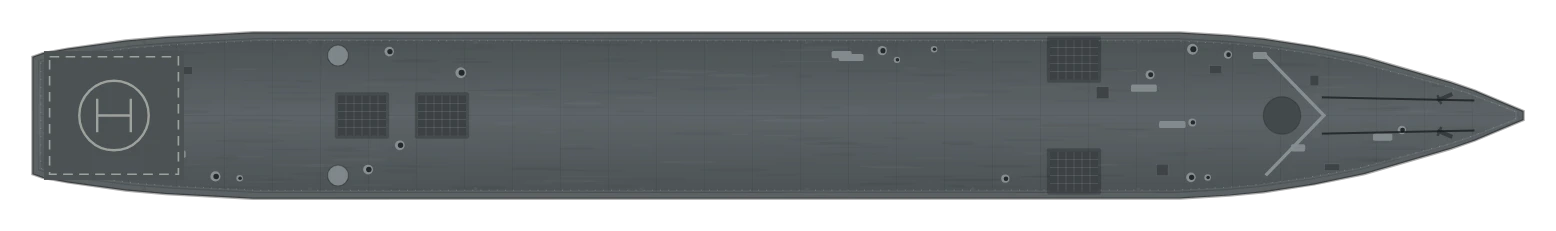
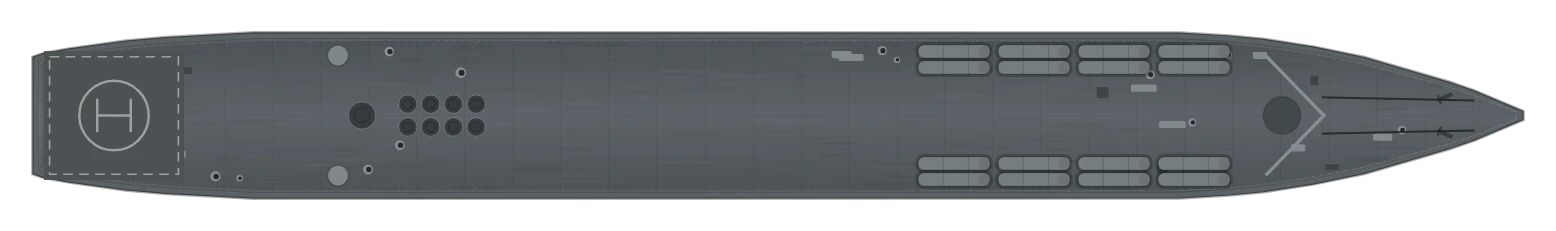
Missile launchers drawn as they looked (a slot's look: canister rows, revolver lids, a grid, deck-edge modules, quad or single hatches): the Slava's P-500 tubes and S-300 battery, the Kirov's Granit grid and S-300 cluster, the Zumwalt's cells along her deck edges
Looks only. fit_audit unchanged; aux_test, review_test pass.

Claude-Session: https://claude.ai/code/session_0112riLGm4nSjrgsGiYL5DUG

Changed region(s): [[0.5861, 0.6364, 0.8021, 0.8485], [0.5861, 0.1515, 0.8021, 0.3636], [0.2159, 0.3939, 0.3085, 0.6061]]

diff --git a/index.html b/index.html
@@ -531,7 +531,7 @@ const DESIGN_LIST = [
   { id: 'ddg_zumwalt', cls: 'ddg', tech: 'stealth', yard: 'tidewater', dn: 'Wraith', model: 'Zumwalt-class destroyer', year: 2016, era: 4, L: 190, B: 24.6, t: 15700, kn: 30, td: 900, armor: 25, crew: 175, price: 235000, power: true,
     // a wave-piercing hull, widest abaft amidships, its sides leaning inboard; one great slab-sided deckhouse and nothing else standing
     p: { outline: [[95.0, 0.86], [93.39, 1.15], [85.83, 1.29], [81.87, 1.55], [16.97, 12.3], [-95.0, 12.3]], stealth: { tumble: true, up: [[-10, 33, 12.5, 2]] }, sup: [[-16, 63, 19.5, 3]], helo: [[-71, 9]] },
-    slots: [sl('M', 55, 0, FWD, 'g155s'), sl('M', 31, 0, FWD, 'g155s'), sl('V', 43, -6, ALL, 'ssm'), sl('V', 43, 6, ALL, 'sam'), sl('V', -58, -7.5, ALL, 'sam'), sl('V', -58, 7.5, ALL, 'ssm'), sl('A', -47, 0, ALL, 'ciws')] },
+    slots: [sl('M', 55, 0, FWD, 'g155s'), sl('M', 31, 0, FWD, 'g155s'), Object.assign(sl('V', 40, -7.4, ALL, 'ssm'), { look: 'pvls', len: 20, n: 5, ang: 0.147 }), Object.assign(sl('V', 40, 7.4, ALL, 'sam'), { look: 'pvls', len: 20, n: 5, ang: 0.147 }), Object.assign(sl('V', -42, -11, ALL, 'sam'), { look: 'pvls', len: 10, n: 2, wd: 2 }), Object.assign(sl('V', -42, 11, ALL, 'ssm'), { look: 'pvls', len: 10, n: 2, wd: 2 }), sl('A', -47, 0, ALL, 'ciws')] },
   { id: 'ddg_gorshkov', cls: 'ff', tech: 'stealth', yard: 'neva', dn: 'Admiral', model: 'Admiral Gorshkov-class frigate', year: 2018, era: 4, L: 135, B: 16, t: 5400, kn: 29.5, td: 640, armor: 10, crew: 210, price: 95000,
     p: { bow: .38, run: .2, stern: 't', tw: .6, stealth: { up: [[17, 15, 8.5, 2]] }, sup: [[14, 30, 13, 2]], fun: [[-8, 3.2, 2.4]], mast: [[15, 'l']], helo: [[-55, 7]] },
     slots: [sl('M', 52, 0, FWD, 'g130a'), sl('V', 40, 0, ALL, 'ssm'), sl('V', 32, 0, ALL, 'sam'), sl('V', -30, 0, ALL, 'sam'), ...pair('A', -20, 5.6, 'ciws'), sl('T', -17.5, 0, BEAM, 'torh')] },
@@ -670,10 +670,10 @@ const DESIGN_LIST = [
     slots: [sl('M', 70, 0, FWD, 'g127a'), sl('V', 56, 0, ALL, 'ssm'), sl('V', -54, 0, ALL, 'sam'), sl('V', 44, 0, ALL, 'sam'), sl('V', -68, 0, ALL, 'ssm'), sl('M', -78, 0, AFT, 'g127a'), sl('A', 38, -5, PORT, 'ciws'), sl('A', -36, 5, STBD, 'ciws'), sl('T', -31, 0, BEAM, 'torh')] },
   { id: 'cg_slava', cls: 'cg', yard: 'neva', dn: 'Gromoboi', model: 'Slava-class cruiser', year: 1982, era: 3, L: 186.4, B: 20.8, t: 9380, kn: 32, td: 880, armor: 25, crew: 476, price: 225000,
     p: { outline: [[93.2, 0.55], [87.13, 3.11], [84.04, 4.19], [73.33, 7.31], [67.03, 8.61], [60.73, 9.59], [56.44, 10.01], [50.26, 10.37], [-65.6, 10.4], [-76.55, 9.81], [-81.54, 9.37], [-88.8, 8.36], [-91.89, 7.8], [-93.2, 7.34]], sup: [[19, 27, 10, 4], [-13, 38, 12, 2], [-64, 16, 11, 2]], fun: [[-24, 3.5, 2.5, -4.5], [-24, 3.5, 2.5, 4.5]], mast: [[15, 'l'], [-8, 'l']], boats: [[-18, 1]], helo: [[-83, 7]] },
-    slots: [sl('M', 63, 0, FWD, 'g130a'), ...pair('V', 37, 7, 'ssmh'), sl('V', -42, 0, ALL, 'sam'), sl('V', -52, 0, ALL, 'sam'), ...pair('A', -55, 7.5, 'ciws'), sl('T', -34, 0, BEAM, 'torh')] },
+    slots: [sl('M', 63, 0, FWD, 'g130a'), ...pair('V', 37, 7, 'ssmh').map(q => Object.assign(q, { look: 'canister', n: 4, rows: 2, tl: 9 })), Object.assign(sl('V', -42, 0, ALL, 'sam'), { look: 'revolver', nx: 4, ny: 2 }), Object.assign(sl('V', -52, 0, ALL, 'sam'), { look: 'hatch' }), ...pair('A', -55, 7.5, 'ciws'), sl('T', -34, 0, BEAM, 'torh')] },
   { id: 'cg_kirov', cls: 'cg', name: 'Nuclear Battlecruiser', nuc: true, yard: 'neva', dn: 'Admiral Volkov', model: 'Kirov-class battlecruiser', year: 1980, era: 3, L: 252, B: 28.5, t: 24300, kn: 32, td: 1100, armor: 76, crew: 710, price: 540000,
     p: { outline: [[126.0, 0.75], [125.3, 1.0], [123.18, 2.1], [116.29, 4.89], [109.39, 6.66], [102.07, 8.09], [85.17, 10.41], [75.18, 11.14], [71.09, 11.31], [62.08, 12.2], [41.67, 13.84], [35.34, 14.11], [-62.23, 14.25], [-68.28, 13.99], [-71.52, 13.99], [-77.01, 13.72], [-81.23, 13.31], [-99.53, 12.76], [-104.46, 12.35], [-120.23, 11.87], [-121.35, 11.53], [-124.17, 10.18], [-126.0, 7.99]], bow: .36, run: .2, stern: 't', tw: .55, sup: [[8, 40, 18, 5], [-40, 56, 15, 3], [-74, 12, 12, 2]], fun: [[-10, 4.5, 3.6]], mast: [[6, 'l'], [-30, 'l']], helo: [[-112, 9]], boats: [[-22, 1]] },
-    slots: [...pair('V', 45, 4.5, 'ssmh'), ...pair('V', 35, 4.5, 'ssmh'), sl('V', 80, 0, ALL, 'sam'), sl('V', 60, 0, ALL, 'sam'), sl('V', -97, 0, ALL, 'sam'), sl('M', -86, 0, AFT, 'g130a'), ...pair('A', 31, 9, 'ciws'), ...pair('A', -62, 9, 'ciws'), sl('T', -25, 0, BEAM, 'torh')] },
+    slots: [...[...pair('V', 45, 3.2, 'ssmh'), ...pair('V', 35, 3.2, 'ssmh')].map(q => Object.assign(q, { look: 'grid', nx: 3, ny: 2, c: 2.8 })), Object.assign(sl('V', 80, 0, ALL, 'sam'), { look: 'quad' }), Object.assign(sl('V', 60, 0, ALL, 'sam'), { look: 'revolver', nx: 3, ny: 4, r: 1.1 }), Object.assign(sl('V', -97, 0, ALL, 'sam'), { look: 'quad' }), sl('M', -86, 0, AFT, 'g130a'), ...pair('A', 31, 9, 'ciws'), ...pair('A', -62, 9, 'ciws'), sl('T', -25, 0, BEAM, 'torh')] },
 ];
 const HULL_K = 1; // overall toughness, tuned against measured battle lengths
 // Armour by place (the owner's go-ahead, 12 Nov 2026): the belt is each design's `armor`; here are the armoured deck,
@@ -1207,7 +1207,36 @@ function drawPlan(g, d, P, part = 'all') {
     else if (s.s === 'A') { const r = s.def === 'aa40' ? 1.5 : s.def === 'ciws' ? 1.3 : s.def === 'aa25' ? 1.2 : 0.8; g.beginPath(); g.arc(s.x, s.y, r, 0, TAU); g.fillStyle = shade(P.sup, -0.1);   // (a small tub, under the mount: a large dark disc read as a shadow off to one side, the owner, 13 Nov 2026)
        g.fill(); g.strokeStyle = 'rgba(0,0,0,.25)'; g.lineWidth = 0.15; g.stroke(); }
     else if (s.s === 'V') {
-      if (d.era >= 3) { const cw = 6, ch = 5; contact(g, k => rrect(g, s.x - cw / 2 - k, s.y - ch / 2 - k, cw + 2 * k, ch + 2 * k, 0.3), 0.4); g.fillStyle = shade(P.deck, -0.3); g.fillRect(s.x - cw / 2, s.y - ch / 2, cw, ch);
+      // a launcher drawn as the real one looked, chosen per slot (look; the owner, 14 Nov 2026): 'none' (drawn by another slot),
+      // 'canister' (rows of long tubes on deck, the Slava's), 'revolver' (round lids in a grid, an S-300 battery), 'grid' (a big
+      // square of lids under the deck, the Kirov's Granit), 'pvls' (cell modules in a strip along the deck edge, angled to it, the
+      // Zumwalt's), 'quad' (four small round lids), 'hatch' (one round lid). Looks only: what is fired is the weapon's.
+      const lk = s.look;
+      const lid = (x, y, r) => { g.beginPath(); g.arc(x, y, r, 0, TAU); g.fillStyle = shade(P.deck, -0.36); g.fill(); g.strokeStyle = 'rgba(205,210,210,.28)'; g.lineWidth = 0.12; g.stroke();
+        g.beginPath(); g.arc(x, y, r * 0.55, 0, TAU); g.strokeStyle = 'rgba(0,0,0,.35)'; g.lineWidth = 0.1; g.stroke(); };
+      if (lk === 'none') { }
+      else if (lk === 'canister') { const n = s.n || 4, rows = s.rows || 2, tl = s.tl || 9, tr = s.tr || 0.85, step = tl + (s.gap || 1.0);
+        for (let i = 0; i < n; i++) for (let r = 0; r < rows; r++) { const cx = s.x + (i - (n - 1) / 2) * step, cy = s.y + (r - (rows - 1) / 2) * (tr * 2 + 0.3);
+          contact(g, k => rrect(g, cx - tl / 2 - k, cy - tr - k, tl + 2 * k, tr * 2 + 2 * k, tr + k), 0.35);
+          rrect(g, cx - tl / 2, cy - tr, tl, tr * 2, tr); crownFill(g, P.sup, tr, -0.04); g.strokeStyle = 'rgba(0,0,0,.35)'; g.lineWidth = 0.12; g.stroke();
+          g.beginPath(); g.arc(cx + tl / 2 - tr * 0.9, cy, tr * 0.8, 0, TAU); g.fillStyle = shade(P.sup, -0.25); g.fill();   // the forward cap
+          g.strokeStyle = 'rgba(0,0,0,.22)'; g.lineWidth = 0.1; g.beginPath(); for (const f of [-0.15, 0.2]) { g.moveTo(cx + f * tl, cy - tr); g.lineTo(cx + f * tl, cy + tr); } g.stroke(); } }
+      else if (lk === 'revolver' || lk === 'quad' || lk === 'hatch') { const nx = lk === 'hatch' ? 1 : lk === 'quad' ? 2 : (s.nx || 4), ny = lk === 'hatch' ? 1 : lk === 'quad' ? 2 : (s.ny || 2);
+        const r = s.r || (lk === 'hatch' ? 1.7 : lk === 'quad' ? 0.95 : 1.15), st = r * 2 + (s.gap || 0.55);
+        for (let i = 0; i < nx; i++) for (let j = 0; j < ny; j++) lid(s.x + (i - (nx - 1) / 2) * st, s.y + (j - (ny - 1) / 2) * st, r); }
+      else if (lk === 'grid') { const nx = s.nx || 5, ny = s.ny || 4, c = s.c || 2.6, w = nx * c, h = ny * c;
+        contact(g, k => rrect(g, s.x - w / 2 - k, s.y - h / 2 - k, w + 2 * k, h + 2 * k, 0.4), 0.3);
+        g.fillStyle = shade(P.deck, -0.28); g.fillRect(s.x - w / 2, s.y - h / 2, w, h);
+        for (let i = 0; i < nx; i++) for (let j = 0; j < ny; j++) { const x0 = s.x - w / 2 + i * c + 0.18, y0 = s.y - h / 2 + j * c + 0.18; g.fillStyle = shade(P.deck, -0.12); g.fillRect(x0, y0, c - 0.36, c - 0.36);
+          g.strokeStyle = 'rgba(0,0,0,.3)'; g.lineWidth = 0.1; g.strokeRect(x0, y0, c - 0.36, c - 0.36); } }
+      else if (lk === 'pvls') { const len = s.len || 12, n = s.n || 4, wd = s.wd || 2.4, ang = -Math.sign(s.y || 1) * (s.ang || 0);
+        g.save(); g.translate(s.x, s.y); g.rotate(ang);
+        contact(g, k => rrect(g, -len / 2 - k, -wd / 2 - k, len + 2 * k, wd + 2 * k, 0.3), 0.3);
+        g.fillStyle = shade(P.deck, -0.3); g.fillRect(-len / 2, -wd / 2, len, wd);
+        g.strokeStyle = 'rgba(205,210,210,.22)'; g.lineWidth = 0.1; g.beginPath();
+        for (let i = 1; i < n * 2; i++) { const x = -len / 2 + i * len / (n * 2); g.moveTo(x, -wd / 2); g.lineTo(x, wd / 2); } g.moveTo(-len / 2, 0); g.lineTo(len / 2, 0); g.stroke();
+        g.strokeStyle = 'rgba(0,0,0,.4)'; g.lineWidth = 0.14; g.beginPath(); for (let i = 0; i <= n; i++) { const x = -len / 2 + i * len / n; g.moveTo(x, -wd / 2); g.lineTo(x, wd / 2); } g.stroke(); g.restore(); }
+      else if (d.era >= 3) { const cw = 6, ch = 5; contact(g, k => rrect(g, s.x - cw / 2 - k, s.y - ch / 2 - k, cw + 2 * k, ch + 2 * k, 0.3), 0.4); g.fillStyle = shade(P.deck, -0.3); g.fillRect(s.x - cw / 2, s.y - ch / 2, cw, ch);
         g.strokeStyle = 'rgba(200,205,205,.18)'; g.lineWidth = 0.1; g.beginPath(); for (let i = 1; i < 6; i++) { g.moveTo(s.x - cw / 2 + i, s.y - ch / 2); g.lineTo(s.x - cw / 2 + i, s.y + ch / 2); } for (let i = 1; i < 5; i++) { g.moveTo(s.x - cw / 2, s.y - ch / 2 + i); g.lineTo(s.x + cw / 2, s.y - ch / 2 + i); } g.stroke(); }
       else if (s.def === 'sam') { contact(g, k => { g.beginPath(); g.arc(s.x, s.y, 2.6 + k, 0, TAU); }, 0.5); g.beginPath(); g.arc(s.x, s.y, 2.6, 0, TAU); crownFill(g, P.sup, 2.6, -0.05);
         g.fillStyle = shade(P.sup, -0.3); g.fillRect(s.x - 0.5, s.y - 1.3, 5, 0.45); g.fillRect(s.x - 0.5, s.y + 0.85, 5, 0.45); g.fillStyle = '#c9cbc6'; g.fillRect(s.x + 0.6, s.y - 1.25, 3.6, 0.35); g.fillRect(s.x + 0.6, s.y + 0.9, 3.6, 0.35); }

diff --git a/src/game.html b/src/game.html
@@ -528,7 +528,7 @@ const DESIGN_LIST = [
   { id: 'ddg_zumwalt', cls: 'ddg', tech: 'stealth', yard: 'tidewater', dn: 'Wraith', model: 'Zumwalt-class destroyer', year: 2016, era: 4, L: 190, B: 24.6, t: 15700, kn: 30, td: 900, armor: 25, crew: 175, price: 235000, power: true,
     // a wave-piercing hull, widest abaft amidships, its sides leaning inboard; one great slab-sided deckhouse and nothing else standing
     p: { outline: [[95.0, 0.86], [93.39, 1.15], [85.83, 1.29], [81.87, 1.55], [16.97, 12.3], [-95.0, 12.3]], stealth: { tumble: true, up: [[-10, 33, 12.5, 2]] }, sup: [[-16, 63, 19.5, 3]], helo: [[-71, 9]] },
-    slots: [sl('M', 55, 0, FWD, 'g155s'), sl('M', 31, 0, FWD, 'g155s'), sl('V', 43, -6, ALL, 'ssm'), sl('V', 43, 6, ALL, 'sam'), sl('V', -58, -7.5, ALL, 'sam'), sl('V', -58, 7.5, ALL, 'ssm'), sl('A', -47, 0, ALL, 'ciws')] },
+    slots: [sl('M', 55, 0, FWD, 'g155s'), sl('M', 31, 0, FWD, 'g155s'), Object.assign(sl('V', 40, -7.4, ALL, 'ssm'), { look: 'pvls', len: 20, n: 5, ang: 0.147 }), Object.assign(sl('V', 40, 7.4, ALL, 'sam'), { look: 'pvls', len: 20, n: 5, ang: 0.147 }), Object.assign(sl('V', -42, -11, ALL, 'sam'), { look: 'pvls', len: 10, n: 2, wd: 2 }), Object.assign(sl('V', -42, 11, ALL, 'ssm'), { look: 'pvls', len: 10, n: 2, wd: 2 }), sl('A', -47, 0, ALL, 'ciws')] },
   { id: 'ddg_gorshkov', cls: 'ff', tech: 'stealth', yard: 'neva', dn: 'Admiral', model: 'Admiral Gorshkov-class frigate', year: 2018, era: 4, L: 135, B: 16, t: 5400, kn: 29.5, td: 640, armor: 10, crew: 210, price: 95000,
     p: { bow: .38, run: .2, stern: 't', tw: .6, stealth: { up: [[17, 15, 8.5, 2]] }, sup: [[14, 30, 13, 2]], fun: [[-8, 3.2, 2.4]], mast: [[15, 'l']], helo: [[-55, 7]] },
     slots: [sl('M', 52, 0, FWD, 'g130a'), sl('V', 40, 0, ALL, 'ssm'), sl('V', 32, 0, ALL, 'sam'), sl('V', -30, 0, ALL, 'sam'), ...pair('A', -20, 5.6, 'ciws'), sl('T', -17.5, 0, BEAM, 'torh')] },
@@ -667,10 +667,10 @@ const DESIGN_LIST = [
     slots: [sl('M', 70, 0, FWD, 'g127a'), sl('V', 56, 0, ALL, 'ssm'), sl('V', -54, 0, ALL, 'sam'), sl('V', 44, 0, ALL, 'sam'), sl('V', -68, 0, ALL, 'ssm'), sl('M', -78, 0, AFT, 'g127a'), sl('A', 38, -5, PORT, 'ciws'), sl('A', -36, 5, STBD, 'ciws'), sl('T', -31, 0, BEAM, 'torh')] },
   { id: 'cg_slava', cls: 'cg', yard: 'neva', dn: 'Gromoboi', model: 'Slava-class cruiser', year: 1982, era: 3, L: 186.4, B: 20.8, t: 9380, kn: 32, td: 880, armor: 25, crew: 476, price: 225000,
     p: { outline: [[93.2, 0.55], [87.13, 3.11], [84.04, 4.19], [73.33, 7.31], [67.03, 8.61], [60.73, 9.59], [56.44, 10.01], [50.26, 10.37], [-65.6, 10.4], [-76.55, 9.81], [-81.54, 9.37], [-88.8, 8.36], [-91.89, 7.8], [-93.2, 7.34]], sup: [[19, 27, 10, 4], [-13, 38, 12, 2], [-64, 16, 11, 2]], fun: [[-24, 3.5, 2.5, -4.5], [-24, 3.5, 2.5, 4.5]], mast: [[15, 'l'], [-8, 'l']], boats: [[-18, 1]], helo: [[-83, 7]] },
-    slots: [sl('M', 63, 0, FWD, 'g130a'), ...pair('V', 37, 7, 'ssmh'), sl('V', -42, 0, ALL, 'sam'), sl('V', -52, 0, ALL, 'sam'), ...pair('A', -55, 7.5, 'ciws'), sl('T', -34, 0, BEAM, 'torh')] },
+    slots: [sl('M', 63, 0, FWD, 'g130a'), ...pair('V', 37, 7, 'ssmh').map(q => Object.assign(q, { look: 'canister', n: 4, rows: 2, tl: 9 })), Object.assign(sl('V', -42, 0, ALL, 'sam'), { look: 'revolver', nx: 4, ny: 2 }), Object.assign(sl('V', -52, 0, ALL, 'sam'), { look: 'hatch' }), ...pair('A', -55, 7.5, 'ciws'), sl('T', -34, 0, BEAM, 'torh')] },
   { id: 'cg_kirov', cls: 'cg', name: 'Nuclear Battlecruiser', nuc: true, yard: 'neva', dn: 'Admiral Volkov', model: 'Kirov-class battlecruiser', year: 1980, era: 3, L: 252, B: 28.5, t: 24300, kn: 32, td: 1100, armor: 76, crew: 710, price: 540000,
     p: { outline: [[126.0, 0.75], [125.3, 1.0], [123.18, 2.1], [116.29, 4.89], [109.39, 6.66], [102.07, 8.09], [85.17, 10.41], [75.18, 11.14], [71.09, 11.31], [62.08, 12.2], [41.67, 13.84], [35.34, 14.11], [-62.23, 14.25], [-68.28, 13.99], [-71.52, 13.99], [-77.01, 13.72], [-81.23, 13.31], [-99.53, 12.76], [-104.46, 12.35], [-120.23, 11.87], [-121.35, 11.53], [-124.17, 10.18], [-126.0, 7.99]], bow: .36, run: .2, stern: 't', tw: .55, sup: [[8, 40, 18, 5], [-40, 56, 15, 3], [-74, 12, 12, 2]], fun: [[-10, 4.5, 3.6]], mast: [[6, 'l'], [-30, 'l']], helo: [[-112, 9]], boats: [[-22, 1]] },
-    slots: [...pair('V', 45, 4.5, 'ssmh'), ...pair('V', 35, 4.5, 'ssmh'), sl('V', 80, 0, ALL, 'sam'), sl('V', 60, 0, ALL, 'sam'), sl('V', -97, 0, ALL, 'sam'), sl('M', -86, 0, AFT, 'g130a'), ...pair('A', 31, 9, 'ciws'), ...pair('A', -62, 9, 'ciws'), sl('T', -25, 0, BEAM, 'torh')] },
+    slots: [...[...pair('V', 45, 3.2, 'ssmh'), ...pair('V', 35, 3.2, 'ssmh')].map(q => Object.assign(q, { look: 'grid', nx: 3, ny: 2, c: 2.8 })), Object.assign(sl('V', 80, 0, ALL, 'sam'), { look: 'quad' }), Object.assign(sl('V', 60, 0, ALL, 'sam'), { look: 'revolver', nx: 3, ny: 4, r: 1.1 }), Object.assign(sl('V', -97, 0, ALL, 'sam'), { look: 'quad' }), sl('M', -86, 0, AFT, 'g130a'), ...pair('A', 31, 9, 'ciws'), ...pair('A', -62, 9, 'ciws'), sl('T', -25, 0, BEAM, 'torh')] },
 ];
 const HULL_K = 1; // overall toughness, tuned against measured battle lengths
 // Armour by place (the owner's go-ahead, 12 Nov 2026): the belt is each design's `armor`; here are the armoured deck,
@@ -1204,7 +1204,36 @@ function drawPlan(g, d, P, part = 'all') {
     else if (s.s === 'A') { const r = s.def === 'aa40' ? 1.5 : s.def === 'ciws' ? 1.3 : s.def === 'aa25' ? 1.2 : 0.8; g.beginPath(); g.arc(s.x, s.y, r, 0, TAU); g.fillStyle = shade(P.sup, -0.1);   // (a small tub, under the mount: a large dark disc read as a shadow off to one side, the owner, 13 Nov 2026)
        g.fill(); g.strokeStyle = 'rgba(0,0,0,.25)'; g.lineWidth = 0.15; g.stroke(); }
     else if (s.s === 'V') {
-      if (d.era >= 3) { const cw = 6, ch = 5; contact(g, k => rrect(g, s.x - cw / 2 - k, s.y - ch / 2 - k, cw + 2 * k, ch + 2 * k, 0.3), 0.4); g.fillStyle = shade(P.deck, -0.3); g.fillRect(s.x - cw / 2, s.y - ch / 2, cw, ch);
+      // a launcher drawn as the real one looked, chosen per slot (look; the owner, 14 Nov 2026): 'none' (drawn by another slot),
+      // 'canister' (rows of long tubes on deck, the Slava's), 'revolver' (round lids in a grid, an S-300 battery), 'grid' (a big
+      // square of lids under the deck, the Kirov's Granit), 'pvls' (cell modules in a strip along the deck edge, angled to it, the
+      // Zumwalt's), 'quad' (four small round lids), 'hatch' (one round lid). Looks only: what is fired is the weapon's.
+      const lk = s.look;
+      const lid = (x, y, r) => { g.beginPath(); g.arc(x, y, r, 0, TAU); g.fillStyle = shade(P.deck, -0.36); g.fill(); g.strokeStyle = 'rgba(205,210,210,.28)'; g.lineWidth = 0.12; g.stroke();
+        g.beginPath(); g.arc(x, y, r * 0.55, 0, TAU); g.strokeStyle = 'rgba(0,0,0,.35)'; g.lineWidth = 0.1; g.stroke(); };
+      if (lk === 'none') { }
+      else if (lk === 'canister') { const n = s.n || 4, rows = s.rows || 2, tl = s.tl || 9, tr = s.tr || 0.85, step = tl + (s.gap || 1.0);
+        for (let i = 0; i < n; i++) for (let r = 0; r < rows; r++) { const cx = s.x + (i - (n - 1) / 2) * step, cy = s.y + (r - (rows - 1) / 2) * (tr * 2 + 0.3);
+          contact(g, k => rrect(g, cx - tl / 2 - k, cy - tr - k, tl + 2 * k, tr * 2 + 2 * k, tr + k), 0.35);
+          rrect(g, cx - tl / 2, cy - tr, tl, tr * 2, tr); crownFill(g, P.sup, tr, -0.04); g.strokeStyle = 'rgba(0,0,0,.35)'; g.lineWidth = 0.12; g.stroke();
+          g.beginPath(); g.arc(cx + tl / 2 - tr * 0.9, cy, tr * 0.8, 0, TAU); g.fillStyle = shade(P.sup, -0.25); g.fill();   // the forward cap
+          g.strokeStyle = 'rgba(0,0,0,.22)'; g.lineWidth = 0.1; g.beginPath(); for (const f of [-0.15, 0.2]) { g.moveTo(cx + f * tl, cy - tr); g.lineTo(cx + f * tl, cy + tr); } g.stroke(); } }
+      else if (lk === 'revolver' || lk === 'quad' || lk === 'hatch') { const nx = lk === 'hatch' ? 1 : lk === 'quad' ? 2 : (s.nx || 4), ny = lk === 'hatch' ? 1 : lk === 'quad' ? 2 : (s.ny || 2);
+        const r = s.r || (lk === 'hatch' ? 1.7 : lk === 'quad' ? 0.95 : 1.15), st = r * 2 + (s.gap || 0.55);
+        for (let i = 0; i < nx; i++) for (let j = 0; j < ny; j++) lid(s.x + (i - (nx - 1) / 2) * st, s.y + (j - (ny - 1) / 2) * st, r); }
+      else if (lk === 'grid') { const nx = s.nx || 5, ny = s.ny || 4, c = s.c || 2.6, w = nx * c, h = ny * c;
+        contact(g, k => rrect(g, s.x - w / 2 - k, s.y - h / 2 - k, w + 2 * k, h + 2 * k, 0.4), 0.3);
+        g.fillStyle = shade(P.deck, -0.28); g.fillRect(s.x - w / 2, s.y - h / 2, w, h);
+        for (let i = 0; i < nx; i++) for (let j = 0; j < ny; j++) { const x0 = s.x - w / 2 + i * c + 0.18, y0 = s.y - h / 2 + j * c + 0.18; g.fillStyle = shade(P.deck, -0.12); g.fillRect(x0, y0, c - 0.36, c - 0.36);
+          g.strokeStyle = 'rgba(0,0,0,.3)'; g.lineWidth = 0.1; g.strokeRect(x0, y0, c - 0.36, c - 0.36); } }
+      else if (lk === 'pvls') { const len = s.len || 12, n = s.n || 4, wd = s.wd || 2.4, ang = -Math.sign(s.y || 1) * (s.ang || 0);
+        g.save(); g.translate(s.x, s.y); g.rotate(ang);
+        contact(g, k => rrect(g, -len / 2 - k, -wd / 2 - k, len + 2 * k, wd + 2 * k, 0.3), 0.3);
+        g.fillStyle = shade(P.deck, -0.3); g.fillRect(-len / 2, -wd / 2, len, wd);
+        g.strokeStyle = 'rgba(205,210,210,.22)'; g.lineWidth = 0.1; g.beginPath();
+        for (let i = 1; i < n * 2; i++) { const x = -len / 2 + i * len / (n * 2); g.moveTo(x, -wd / 2); g.lineTo(x, wd / 2); } g.moveTo(-len / 2, 0); g.lineTo(len / 2, 0); g.stroke();
+        g.strokeStyle = 'rgba(0,0,0,.4)'; g.lineWidth = 0.14; g.beginPath(); for (let i = 0; i <= n; i++) { const x = -len / 2 + i * len / n; g.moveTo(x, -wd / 2); g.lineTo(x, wd / 2); } g.stroke(); g.restore(); }
+      else if (d.era >= 3) { const cw = 6, ch = 5; contact(g, k => rrect(g, s.x - cw / 2 - k, s.y - ch / 2 - k, cw + 2 * k, ch + 2 * k, 0.3), 0.4); g.fillStyle = shade(P.deck, -0.3); g.fillRect(s.x - cw / 2, s.y - ch / 2, cw, ch);
         g.strokeStyle = 'rgba(200,205,205,.18)'; g.lineWidth = 0.1; g.beginPath(); for (let i = 1; i < 6; i++) { g.moveTo(s.x - cw / 2 + i, s.y - ch / 2); g.lineTo(s.x - cw / 2 + i, s.y + ch / 2); } for (let i = 1; i < 5; i++) { g.moveTo(s.x - cw / 2, s.y - ch / 2 + i); g.lineTo(s.x + cw / 2, s.y - ch / 2 + i); } g.stroke(); }
       else if (s.def === 'sam') { contact(g, k => { g.beginPath(); g.arc(s.x, s.y, 2.6 + k, 0, TAU); }, 0.5); g.beginPath(); g.arc(s.x, s.y, 2.6, 0, TAU); crownFill(g, P.sup, 2.6, -0.05);
         g.fillStyle = shade(P.sup, -0.3); g.fillRect(s.x - 0.5, s.y - 1.3, 5, 0.45); g.fillRect(s.x - 0.5, s.y + 0.85, 5, 0.45); g.fillStyle = '#c9cbc6'; g.fillRect(s.x + 0.6, s.y - 1.25, 3.6, 0.35); g.fillRect(s.x + 0.6, s.y + 0.9, 3.6, 0.35); }

diff --git a/docs/AGENT_NOTES.md b/docs/AGENT_NOTES.md
@@ -93,3 +93,4 @@
 - **Funnels and masts** (the owner, 14 Nov 2026): the Iowa's mainmast stands abaft her after funnel (`[-33, 'p']`; at -29 it was inside the stack and its turning search aerial was drawn in the funnel). The Ticonderoga follows his photograph: one long deckhouse between the two radar blocks (`house` -38 to 32 m; blocks 12 to 32 and -25 to -39), both stacks on the centreline in it, the lattice mainmast between them, a helicopter deck aft, the torpedo tubes moved aft of the after stack and the after CIWS onto the after block.
 - **Plans, second round** (14 Nov 2026, from the owner's plans): `cg_kirov`, `cg_slava`, `ssn_la` and `ssn_typhoon` carry traced outlines (scaled to the design's beam). A submarine with an `outline` is drawn from it (the stock teardrop and cigar shapes stay for the rest). A submarine's `screws: [[x, y, r]]` draws shrouded screws at her stern in place of the single `pod` (the Typhoon's two, 6.9 m off the centreline). The Typhoon's sail is at -8 m with her twenty missile hatches ahead of it (12 to 52 m), her bow blunt and rounded. The Slava follows her 1:700 plan: bridge between the rows of P-500 tubes, uptakes and main mast aft of it, S-300 launchers abaft the funnels, hangar and helicopter deck aft, the 130 mm twin at 63 m. Missile canisters (the Slava's slanted tubes) still draw as flush cells: a launcher drawing of their own is still to do.
 - **Plans, third round** (14 Nov 2026, the owner's plans): the Nelson (Andrew Arthur's plan: turrets at 43, 22 and 0 m, the tower bridge abaft X, funnel at -48 m, tripod mainmast at -70 m), the Kirov (a plan of Pyotr Velikiy; the hull outline kept from the earlier 3D render, the clean one), the Zumwalt (traced wedge hull, gun houses at 55 and 31 m) and the Littorio (ONI 202, February 1943: turrets at 54, 33 and -59 m, wing 6-inch triples at 24 and -48 m, funnels at -3 and -17 m) laid out after their plans. The Typhoon's screw ducts are joined to her hull. Submarine diving planes are capped at 3.4 m of span: `tools/bake_assets.js` leaves 4 m round a hull (`wide + pad`, pad 8 in all), and wider fins were cut off at the sprite's edge.
+- **Missile launchers drawn as they looked** (the owner, 14 Nov 2026): a V slot may carry `look` (`src/game.html`, the slot drawing): `canister` (rows of long tubes, `n`, `rows`, `tl`, `tr`), `revolver` (round lids, `nx`, `ny`, `r`), `grid` (a block of square lids, `nx`, `ny`, `c`), `pvls` (cell modules in a strip along the deck edge, `len`, `n`, `wd`, `ang` toward the bow), `quad`, `hatch`, or `none`. Without one, Era III and IV keep the square cell block and older ships their twin-arm or box launchers. Looks only. Given so far to the Slava (P-500 canisters, S-300 revolver), the Kirov (Granit grid, S-300 revolver, Kinzhal quads) and the Zumwalt (edge modules).
